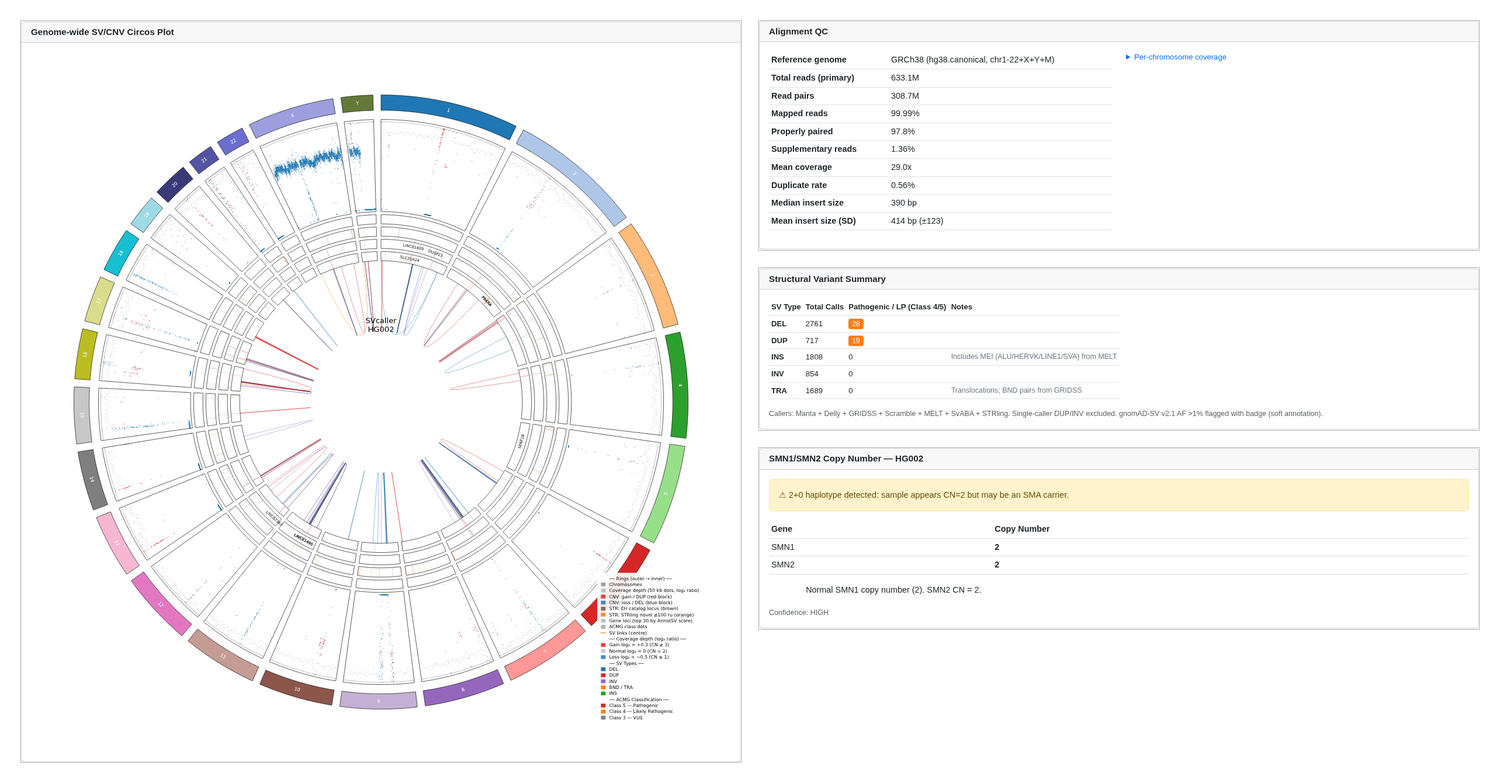
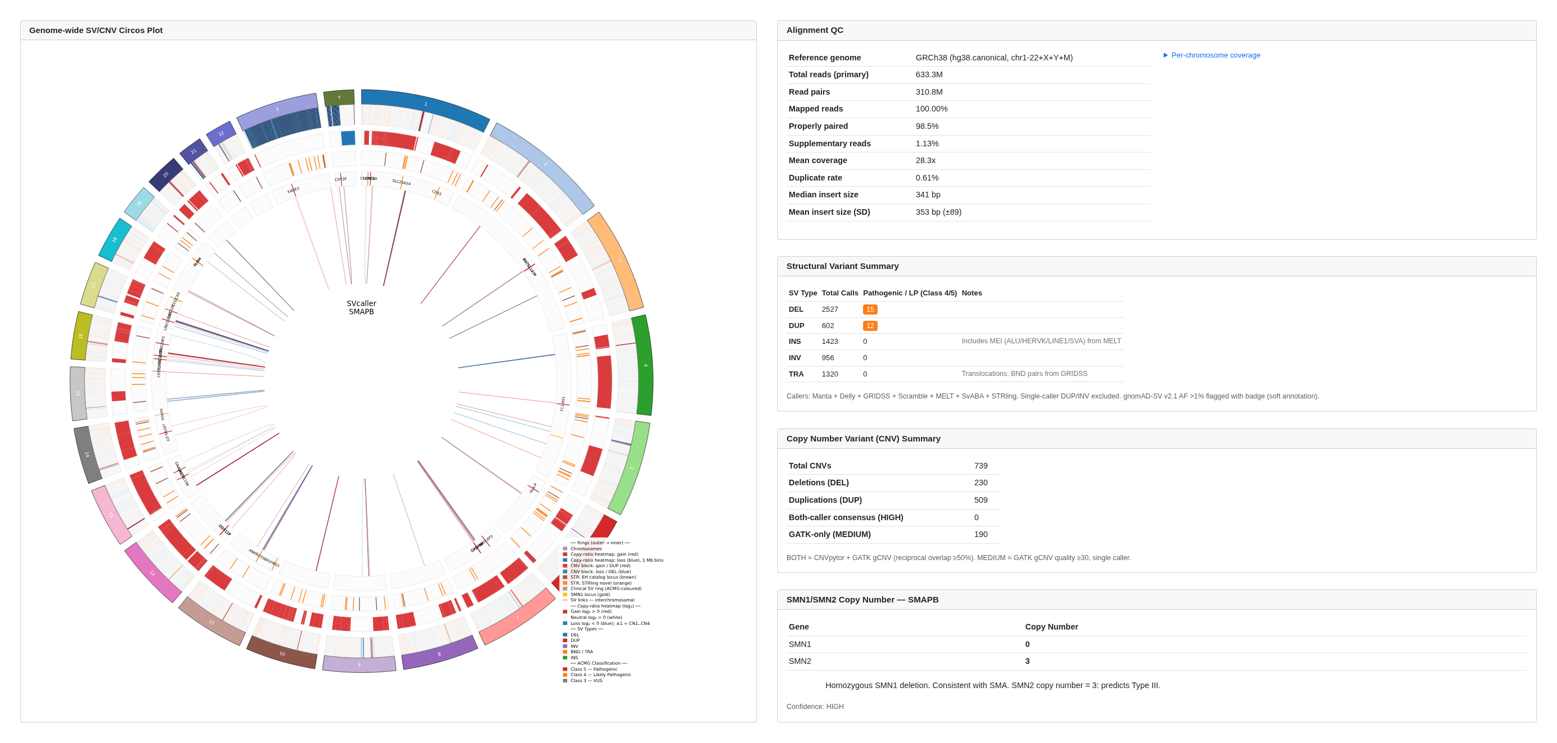
docs(readme): refresh report collage with SMAPB reference sample
Replace the HG002 collage with a 5-panel excerpt from the freshly regenerated
SMAPB report (run15): remodeled genome-fingerprint Circos (left) + Alignment QC,
Structural Variant Summary, Copy Number Variant Summary (739 CNVs), and SMN1/SMN2
classification (homozygous SMN1 deletion, SMA) stacked right. SMAPB is an
anonymised standardized reference sample. The CNV/SV panels now render populated
data, confirming the channel-starvation fix end-to-end.

diff --git a/README.md b/README.md
@@ -10,9 +10,9 @@
 
 Accepts FASTQ or pre-aligned BAM input. Produces a per-sample HTML report with an embedded Circos plot, annotated SV/CNV tables, SMN1/SMN2 classification, and optional GIAB benchmark metrics.
 
-![SVcaller per-sample HTML report (HG002 GIAB benchmark)](docs/img/report_overview.png)
+![SVcaller per-sample HTML report (SMAPB reference sample)](docs/img/report_overview.png)
 
-*Self-contained per-sample report (HG002 public GIAB benchmark shown): alignment QC, genome-wide Circos plot, tiered SV / CNV / STR tables, and SMN1/SMN2 classification. Bootstrap CSS is inlined for air-gapped clinical distribution.*
+*Self-contained per-sample report (SMAPB, an anonymised standardized reference sample): alignment QC, genome-wide Circos plot, structural-variant and copy-number summaries, and SMN1/SMN2 classification (here a homozygous SMN1 deletion consistent with SMA). Bootstrap CSS is inlined for air-gapped clinical distribution.*
 
 ---
 